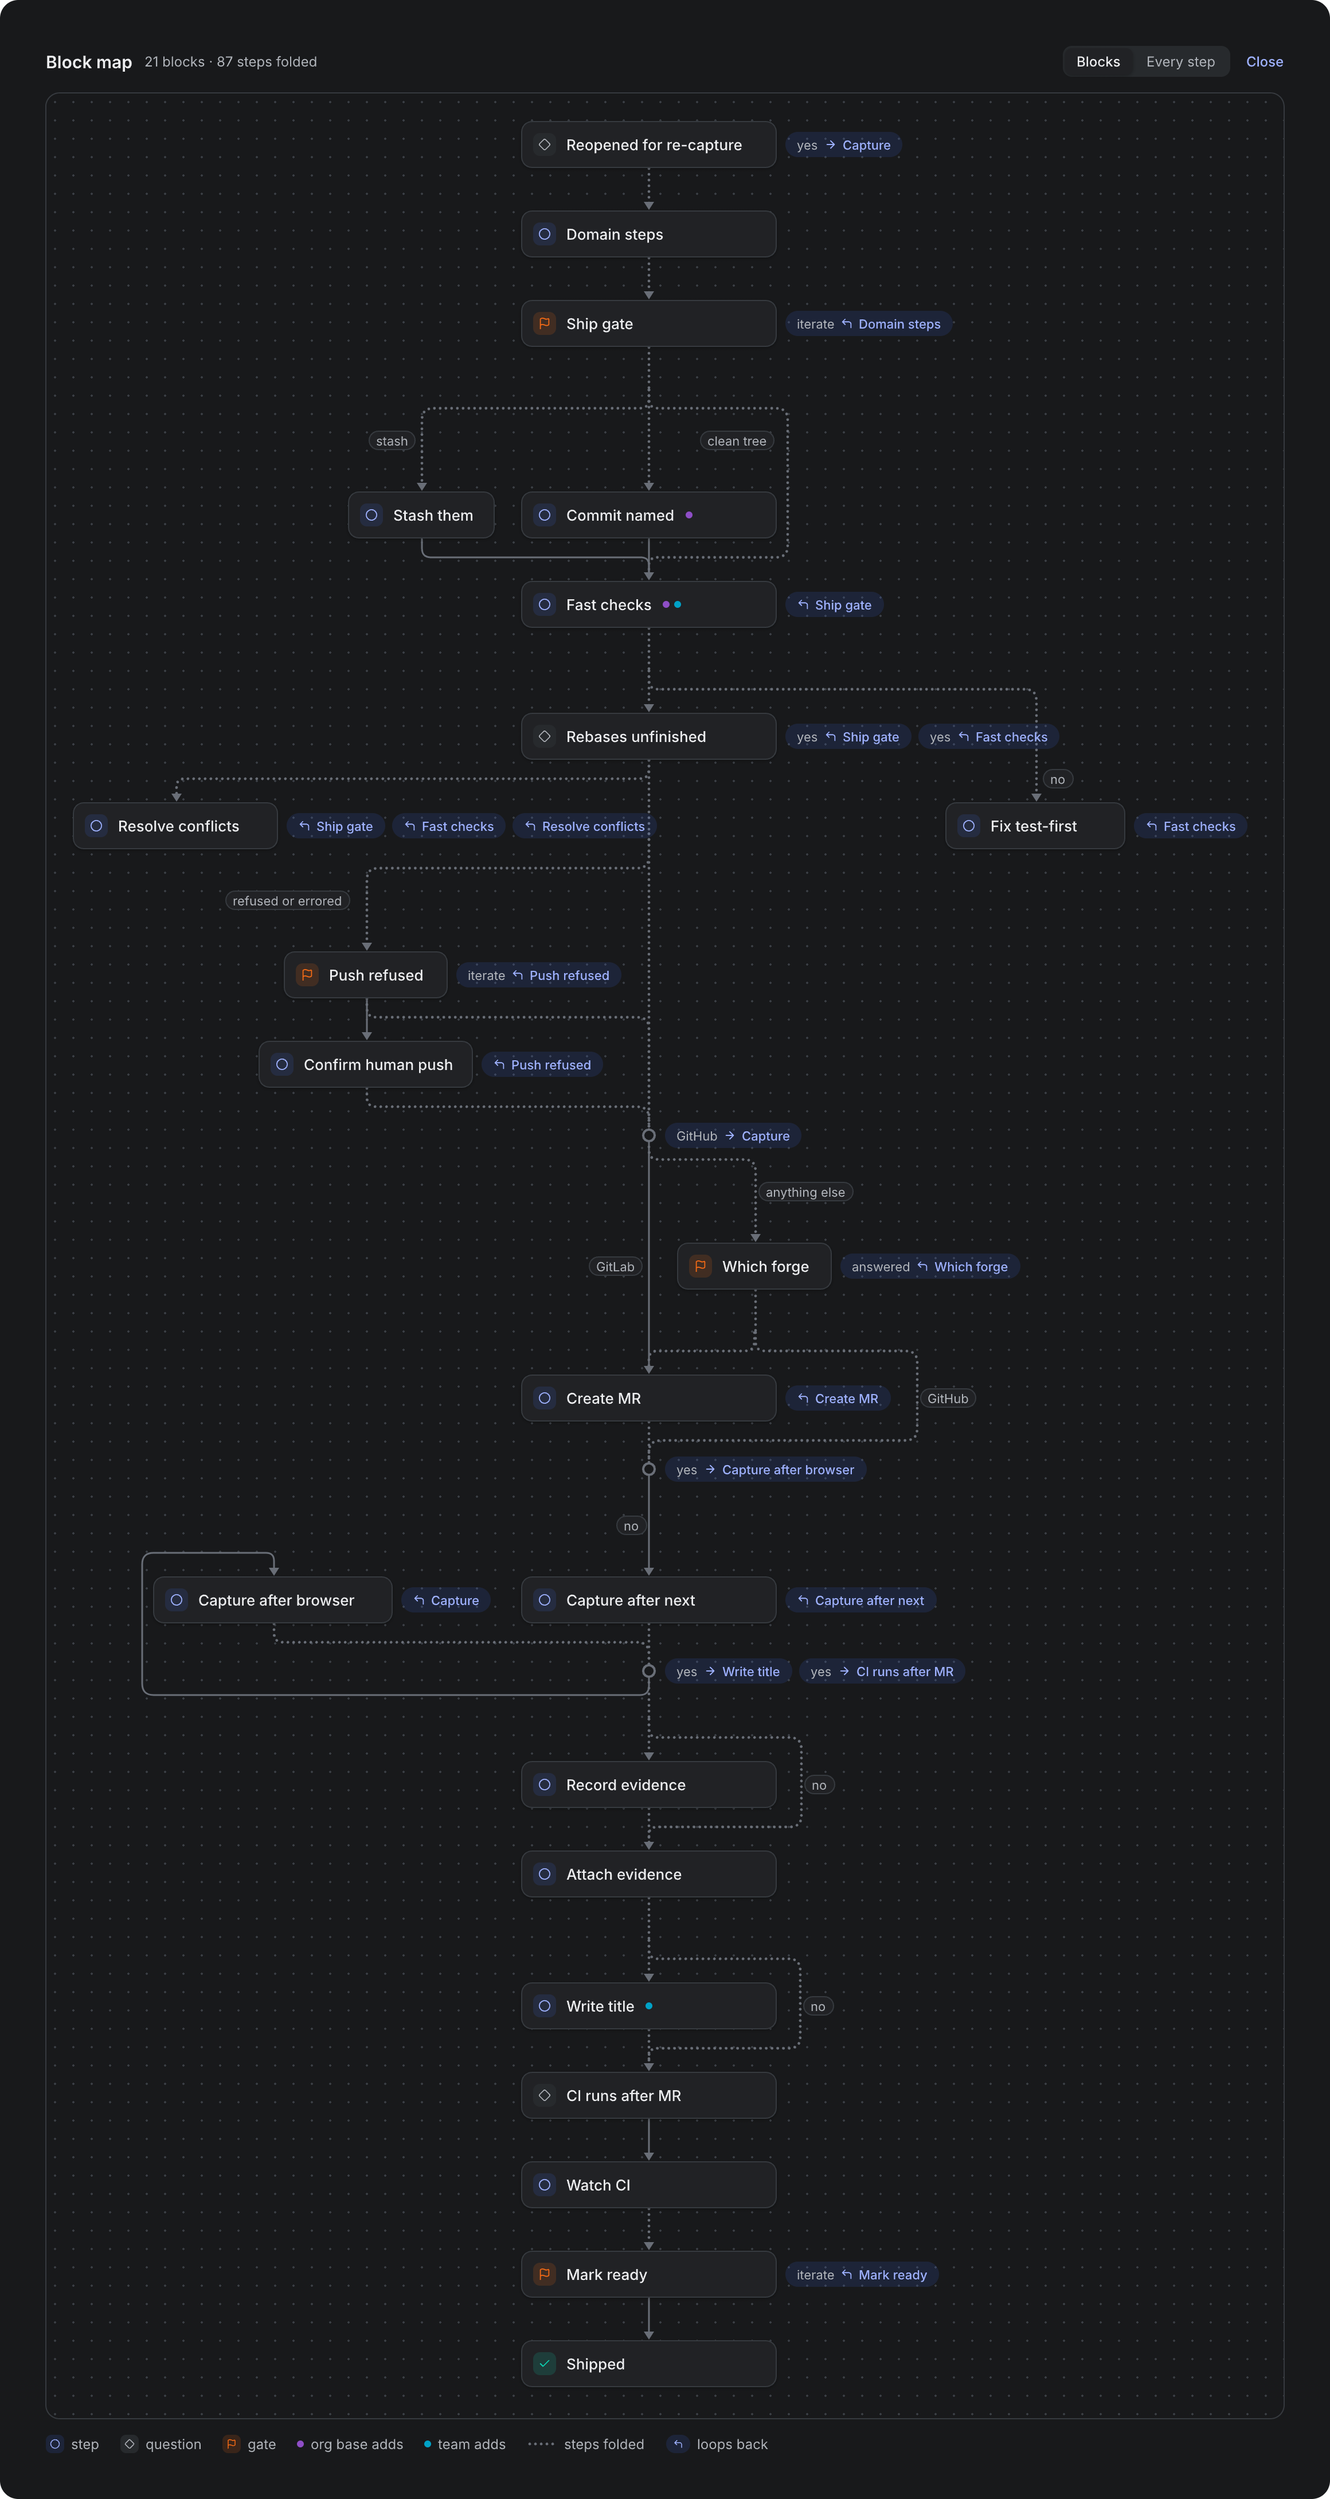
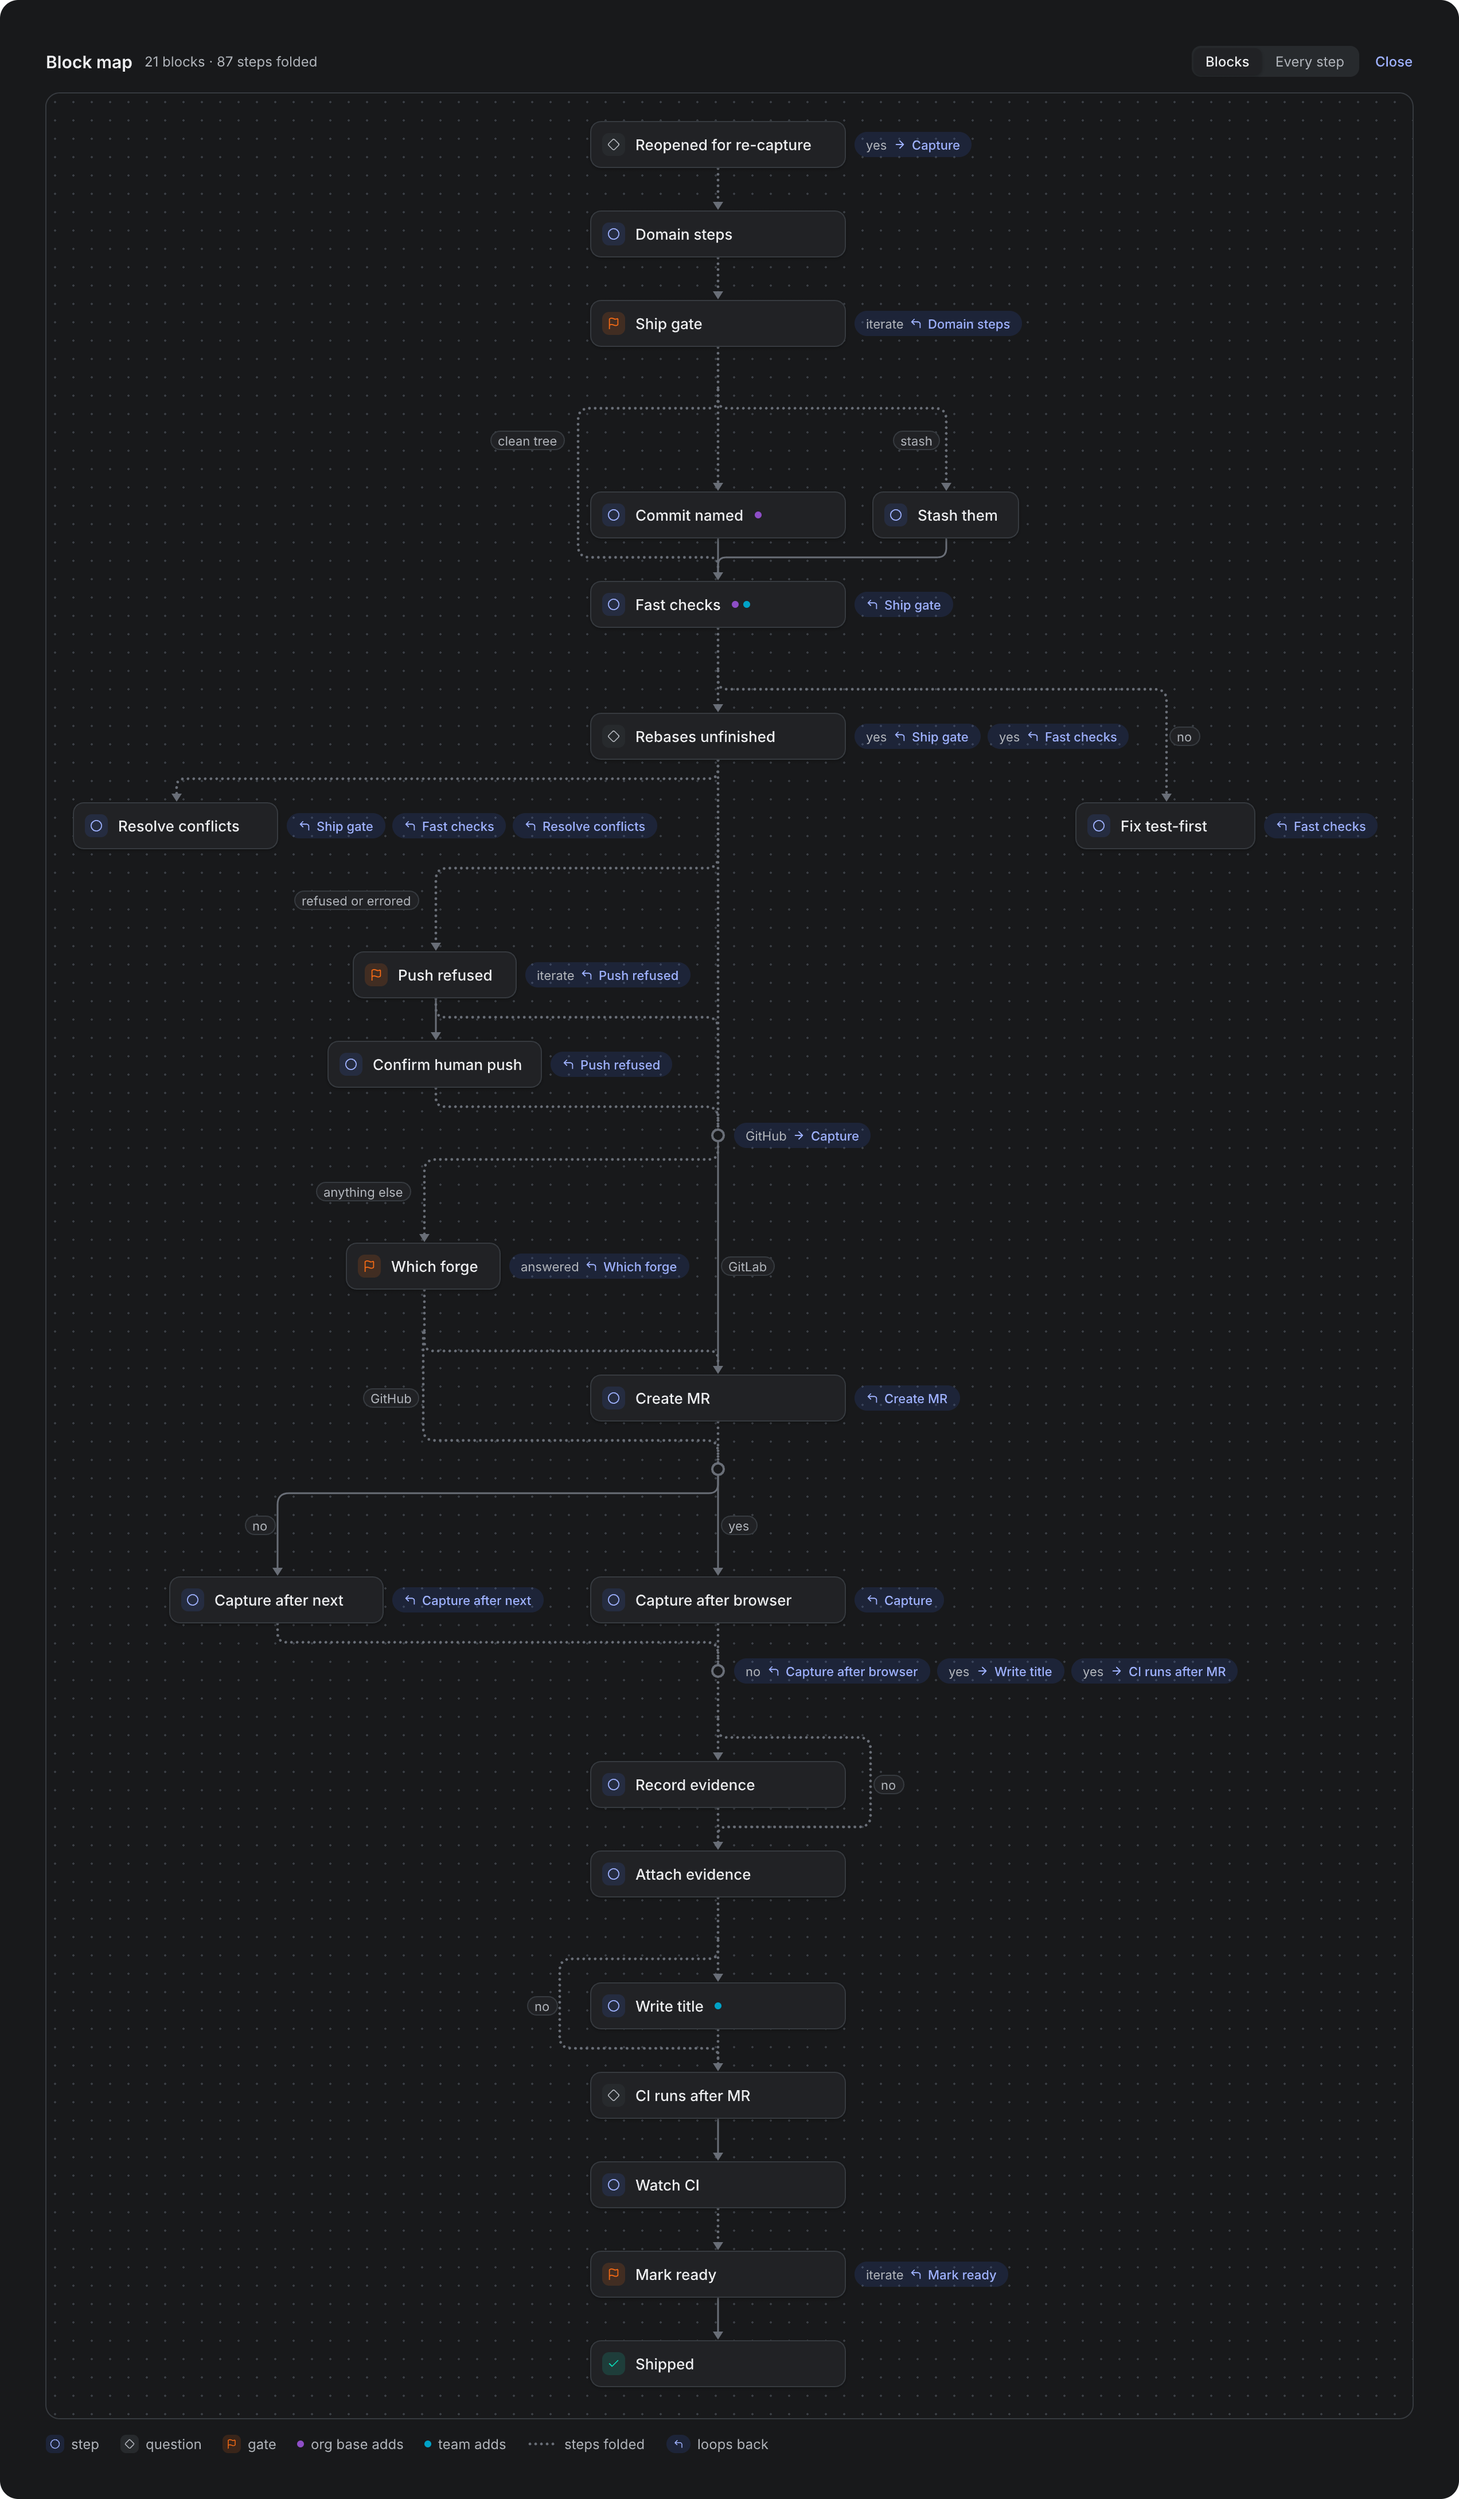
docs: block map boards from the final model (captures side by side)

diff --git a/docs/superpowers/specs/2026-10-23-skill-block-graphs-design.md b/docs/superpowers/specs/2026-10-23-skill-block-graphs-design.md
@@ -147,8 +147,9 @@ model's output on ship's Flow (see Boards).
     one folded question, it is one pill. It is named by the targets' shared
     leading word when they have one ("Capture"), else by that question's
     short label. Clicking it pans to fit all its targets and rings each one.
-  - **Several sources:** sibling blocks with the same jump (same label, same
-    targets) share one pill, beside the last sibling. Jumps that differ in
+  - **Several sources:** sibling blocks (reached by lines from the same
+    block or split) with the same jump (same label, same targets) share
+    one pill, beside the last sibling. Jumps that differ in
     label or target keep their own pills.
 - **Shared trunks.** Two forward links from one block that share folded
   steps are drawn as one trunk that splits at the folded question where
